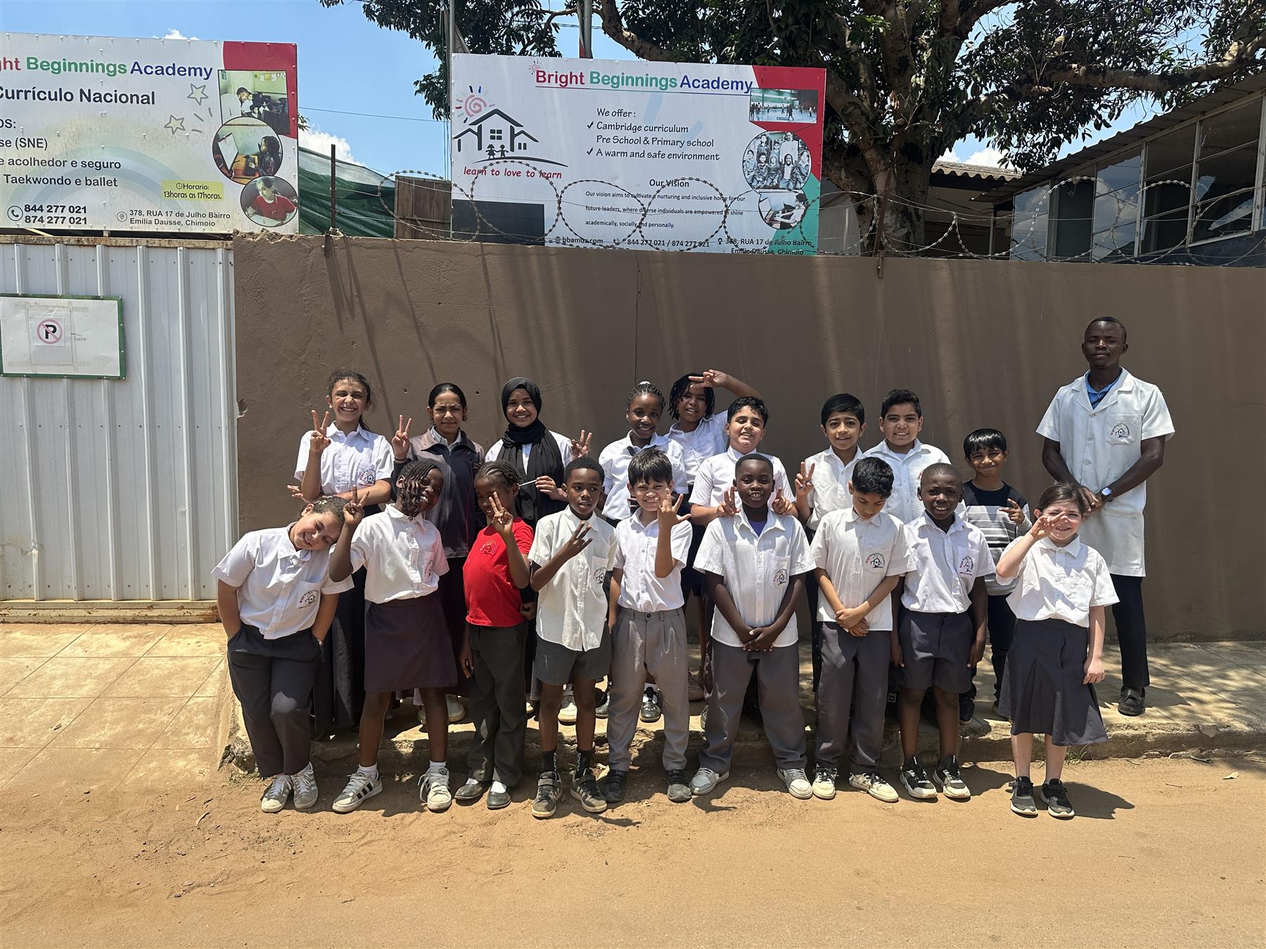
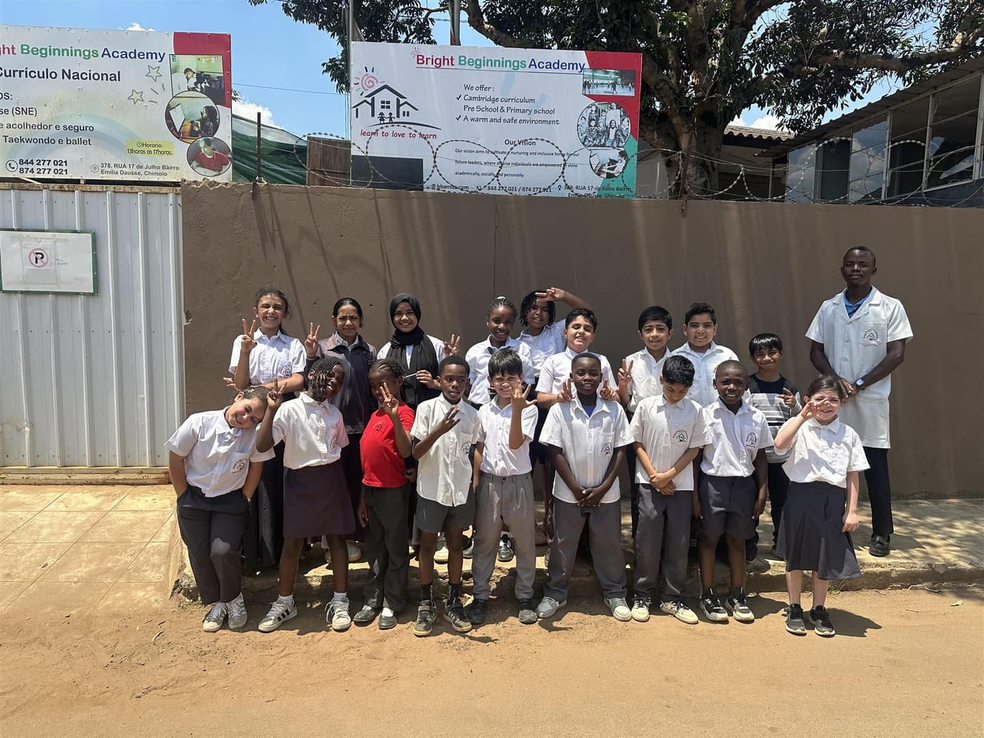
BBA: novas fotos na galeria e no site, Google Analytics e imagens otimizadas
- 4 retratos do Ensino Primario na galeria (18 no total) e nas paginas index, about e programmes
- Hero com carregamento lazy (data-src) e novo slide
- Google tag G-0FX6RZ6NRV em todas as paginas e CSP atualizada
- Imagens recomprimidas (varias de 1.6 MB para ~210 KB)
- Ignorar biblioteca Lightroom sites/bba/bba no git e no deploy

diff --git a/sites/bba/gallery.html b/sites/bba/gallery.html
@@ -2,6 +2,14 @@
 <html lang="pt-MZ">
 <head>
 <meta charset="UTF-8">
+<!-- Google tag (gtag.js) -->
+<script async src="https://www.googletagmanager.com/gtag/js?id=G-0FX6RZ6NRV"></script>
+<script>
+  window.dataLayer = window.dataLayer || [];
+  function gtag(){dataLayer.push(arguments);}
+  gtag('js', new Date());
+  gtag('config', 'G-0FX6RZ6NRV');
+</script>
 <meta name="viewport" content="width=device-width, initial-scale=1.0, viewport-fit=cover">
 <title>Galeria do Campus | Bright Beginnings Academy — Chimoio</title>
 <meta name="description" content="Explore a vida no campus da Bright Beginnings Academy em Chimoio: salas, laboratórios de ciências, desporto e momentos dos alunos.">
@@ -776,6 +784,10 @@ dialog.lb .lb-cap button{background:rgba(255,255,255,.12);color:#fff;border:1px 
       <button class="g-item reveal" type="button" data-cat="campus"><img src="assets/img/alunos-celebracao-bba.jpg" alt="Celebração e alegria dos alunos da Bright Beginnings Academy" loading="lazy"><span class="g-cap"><b data-i18n="g13b">Celebração & Espírito Escolar</b><span data-i18n="g13s">Alegria, união e energia positiva no campus da BBA.</span></span></button>
       <button class="g-item reveal" type="button" data-cat="campus"><img src="assets/img/alunos-equipa-bba.jpg" alt="Alunos da Bright Beginnings Academy em uniforme escolar" loading="lazy"><span class="g-cap"><b data-i18n="g14b">Orgulho no Uniforme BBA</b><span data-i18n="g14s">Turma reunida na entrada da escola em Chimoio.</span></span></button>
       <button class="g-item reveal" type="button" data-cat="campus"><img src="assets/img/foto-real-escola.jpg" alt="Entrada principal da escola" loading="lazy"><span class="g-cap"><b data-i18n="g2b">Entrada Principal</b><span data-i18n="g2s">O portão real da escola na Rua 17 de Julho.</span></span></button>
+      <button class="g-item reveal" type="button" data-cat="campus"><img src="assets/img/alunas-primary-bba.jpg" alt="Alunas do Ensino Primário da Bright Beginnings Academy em uniforme escolar" loading="lazy" decoding="async"><span class="g-cap"><b data-i18n="g15b">Amizade no Campus</b><span data-i18n="g15s">Alunas do Ensino Primário juntas, com o uniforme da escola.</span></span></button>
+      <button class="g-item reveal" type="button" data-cat="campus"><img src="assets/img/aluna-primary-bba-1.jpg" alt="Aluna do Ensino Primário da Bright Beginnings Academy a fazer um sinal de paz" loading="lazy" decoding="async"><span class="g-cap"><b data-i18n="g16b">Sorriso do Primary</b><span data-i18n="g16s">Alegria e confiança de uma aluna do Ensino Primário.</span></span></button>
+      <button class="g-item reveal" type="button" data-cat="campus"><img src="assets/img/aluna-primary-bba-2.jpg" alt="Aluna do Ensino Primário da Bright Beginnings Academy a mostrar o emblema da escola" loading="lazy" decoding="async"><span class="g-cap"><b data-i18n="g17b">Orgulho no Emblema</b><span data-i18n="g17s">Aluna do Primary a mostrar o emblema da BBA no uniforme.</span></span></button>
+      <button class="g-item reveal" type="button" data-cat="campus"><img src="assets/img/aluna-primary-bba-3.jpg" alt="Aluna do Ensino Primário da Bright Beginnings Academy em uniforme escolar" loading="lazy" decoding="async"><span class="g-cap"><b data-i18n="g18b">Confiança no Uniforme</b><span data-i18n="g18s">Retrato de uma aluna do Ensino Primário em uniforme BBA.</span></span></button>
       <button class="g-item reveal" type="button" data-cat="rooms"><img src="assets/img/sala-informatica.jpg" alt="Sala de informática da escola" loading="lazy"><span class="g-cap"><b data-i18n="g3b">Sala de Informática</b><span data-i18n="g3s">Tecnologia ao serviço da aprendizagem.</span></span></button>
       <button class="g-item reveal" type="button" data-cat="rooms"><img src="assets/img/early-years.jpg" alt="Sala do Early Years" loading="lazy"><span class="g-cap"><b data-i18n="g4b">Early Years</b><span data-i18n="g4s">Descoberta e jogo dos 2 aos 5 anos.</span></span></button>
       <button class="g-item reveal" type="button" data-cat="rooms"><img src="assets/img/sala-aula-1.jpeg" alt="Aluno do Ensino Primário em estudo com livro Oxford" loading="lazy"><span class="g-cap"><b data-i18n="g5b">Ensino Primário</b><span data-i18n="g5s">Leitura orientada, matemática e avaliação contínua.</span></span></button>
@@ -787,7 +799,7 @@ dialog.lb .lb-cap button{background:rgba(255,255,255,.12);color:#fff;border:1px 
       <button class="g-item reveal" type="button" data-cat="rooms"><img src="assets/img/sala-aula-1.jpeg" alt="Aluno a estudar com livro Oxford" loading="lazy"><span class="g-cap"><b data-i18n="g11b">Estudo com Livros Oxford</b><span data-i18n="g11s">Concentração com o Currículo Oxford.</span></span></button>
       <button class="g-item reveal" type="button" data-cat="art"><img src="assets/img/atividade-pintura.jpeg" alt="Aluna em atividade de pintura" loading="lazy"><span class="g-cap"><b data-i18n="g12b">Pintura & Artes</b><span data-i18n="g12s">Cor, imaginação e motricidade fina.</span></span></button>
     </div>
-    <p class="mini-note" style="margin-top:16px;text-align:center" data-i18n="g_count">14 fotografias</p>
+    <p class="mini-note" style="margin-top:16px;text-align:center" data-i18n="g_count">18 fotografias</p>
   </div>
 </section>
 
@@ -878,7 +890,7 @@ dialog.lb .lb-cap button{background:rgba(255,255,255,.12);color:#fff;border:1px 
 </div>
 <script src="assets/bba-config.js"></script>
 <script>
-window.__EN={"bar_annc":"Admissions Open for 2027 — Secure your child's place.","bar_cta":"Apply now →","nav_about":"About Us","nav_prog":"Programmes","nav_oxford":"Oxford Curriculum","nav_missao":"Mission & Values","nav_gal":"Gallery","nav_contact":"Contact","btn_apply":"Apply for 2027","btn_wa":"Chat on WhatsApp","ab_cta1":"Apply for 2027","f_blurb":"International school in Chimoio teaching the Oxford International Curriculum, from Early Years to Grade 10 — a community that knows every student by name.","f_hours":"Mon–Fri · 07:30–16:00","f_pages":"School","f_adm":"Admissions","f_insc":"Admissions 2027","f_priv":"Privacy Policy","f_terms":"Terms of Use","f_talk":"Talk to us","f_note":"Our office replies within 24 business hours, Monday to Friday. Campus tours by appointment.","f_love":"Learn to love to learn.","f_oxford":"Oxford International Curriculum — certified school since 2025","f_copy":"© 2026 <b>Bright Beginnings Academy</b> · Established in 2014 · Chimoio, Mozambique","cookie_t":"We use only essential data to answer your request. No advertising trackers.","cookie_l":"See Privacy Policy","cookie_b":"Accept","nav_home":"Home","ct_btn1":"Book a visit on WhatsApp","ct_btn2":"Contacts & location","t_saber":"Learn more","ct_consent":"I have read and accept the <a href=\"privacy.html\">Privacy Policy</a> and agree to be contacted about this enquiry.","side_priv":"We use your data only to answer this request. No advertising. <a href=\"privacy.html\">See Privacy Policy</a>.","ox_badge":"Oxford International certified · since 2025","lb_x":"Close ✕","side_btn":"Book a visit","n_eyebrow":"News","side_nc_t":"No obligation","side_dp_t":"Your data, protected","m1_t":"Talk to us","m1_d":"Complete the pre-enrolment form or message us on WhatsApp (+258 844 277 021). We schedule the guided visit on the day that suits your family best.","m2_t":"Visit the campus and submit your documents","m2_d":"Tour the campus, meet our leadership team and submit the document checklist. Primary applicants have a friendly placement conversation.","m3_t":"Confirm your place","m3_d":"Once your documents are validated, our office confirms the 2027 enrolment and shares the class, materials and key dates.","q1":"What language are lessons taught in?","a1":"Lessons are taught in English, with Portuguese support for beginners — the school's bilingual model since it was founded.","q2":"How can I visit the school before deciding?","a2":"Complete the pre-enrolment form or call +258 844 277 021 to schedule a guided visit: Rua 17 de Julho, Bairro Emília Dausse, Chimoio, Monday to Friday, 07:30–16:00.","q3":"Is there an entrance exam?","a3":"From Primary onwards, there is a placement conversation to get to know your child. There is no pass-or-fail exam — it simply ensures the right class placement.","q4":"Which ages do you accept at each level?","a4":"Early Years: ages 2–5. Primary: Grades 1–7. Secondary: Grades 8–10 (up to around age 16).","q5":"How do I find out the 2027 fees?","a5":"Our office will send you the updated fee schedule on WhatsApp or during your visit — no obligation, no small print.","map_dir":"Get Directions","map_hours":"Office hours: Monday to Friday · 07:30 to 16:00","map_addr_title":"Campus Address","gal_title":"Moments at Bright Beginnings.","gal_lead":"Classrooms, science laboratories, sports and student collaboration on our campus in Chimoio — real photos of the school.","gal_cta1":"Book a visit on WhatsApp","gal_cta2":"Apply for 2027","fl_eyebrow":"Campus gallery","fl_t":"Life on campus, in pictures","fl_lead":"Filter by activity or area. Select any image to open the high-resolution view.","fl_all":"All moments","fl_campus":"Campus & grounds","fl_rooms":"Classrooms & ICT","fl_sci":"Sciences & sports","fl_art":"Arts & creativity","g_count":"14 photographs","g1b":"Campus Community","g1s":"Students and teachers starting the day together on campus.","g2b":"Main School Entrance","g2s":"The real gate of our school on Rua 17 de Julho.","g13b":"School Spirit & Celebration","g13s":"Celebration, enthusiasm and unity across our school community.","g14b":"Pride in the BBA Uniform","g14s":"Official school uniform and community pride in Chimoio.","g3b":"ICT & Digital Learning","g3s":"Technology supporting everyday learning.","g4b":"Early Years Discovery","g4s":"Play-centred discovery for ages 2 to 5.","g5b":"Primary Academic Focus","g5s":"Guided literacy, mathematics and continuous assessment.","g6b":"Secondary Collaboration","g6s":"Analytical work and university preparation.","g7b":"Practical Laboratory Science","g7s":"Hands-on physics, chemistry and biology.","g8b":"Athletics & Team Sports","g8s":"Character, coordination and teamwork.","g9b":"Creativity Project — Planet Earth","g9s":"A student-made model exploring our planet.","g10b":"In the Classroom","g10s":"Real learning moments in Chimoio.","g11b":"Studying with Oxford Books","g11s":"Focused work with the Oxford Curriculum.","g12b":"Painting Activity","g12s":"Colour, imagination and fine motor skills.","rh_eyebrow":"Daily rhythm","rh_t":"A day at Bright Beginnings","rh_lead":"A school day paced for deep learning, balanced rest and intellectual curiosity.","r1_t":"Assembly & morning reading","r1_d":"A calm start, morning greetings in English and reading time in home classrooms.","r2_t":"Core Oxford subjects","r2_d":"Mathematics, English, sciences and practical ICT in dedicated learning rooms.","r3_t":"Co-curricular & athletics","r3_d":"Supervised sport, scientific experiments, public speaking and community projects.","gq_eyebrow":"Come and experience BBA","gq_t":"Come and experience the campus in person","gq_p":"Schedule a 30-minute walk-through of classrooms, science labs and sports fields with an admissions officer.","gq_b2":"Contacts & location"};
+window.__EN={"bar_annc":"Admissions Open for 2027 — Secure your child's place.","bar_cta":"Apply now →","nav_about":"About Us","nav_prog":"Programmes","nav_oxford":"Oxford Curriculum","nav_missao":"Mission & Values","nav_gal":"Gallery","nav_contact":"Contact","btn_apply":"Apply for 2027","btn_wa":"Chat on WhatsApp","ab_cta1":"Apply for 2027","f_blurb":"International school in Chimoio teaching the Oxford International Curriculum, from Early Years to Grade 10 — a community that knows every student by name.","f_hours":"Mon–Fri · 07:30–16:00","f_pages":"School","f_adm":"Admissions","f_insc":"Admissions 2027","f_priv":"Privacy Policy","f_terms":"Terms of Use","f_talk":"Talk to us","f_note":"Our office replies within 24 business hours, Monday to Friday. Campus tours by appointment.","f_love":"Learn to love to learn.","f_oxford":"Oxford International Curriculum — certified school since 2025","f_copy":"© 2026 <b>Bright Beginnings Academy</b> · Established in 2014 · Chimoio, Mozambique","cookie_t":"We use only essential data to answer your request. No advertising trackers.","cookie_l":"See Privacy Policy","cookie_b":"Accept","nav_home":"Home","ct_btn1":"Book a visit on WhatsApp","ct_btn2":"Contacts & location","t_saber":"Learn more","ct_consent":"I have read and accept the <a href=\"privacy.html\">Privacy Policy</a> and agree to be contacted about this enquiry.","side_priv":"We use your data only to answer this request. No advertising. <a href=\"privacy.html\">See Privacy Policy</a>.","ox_badge":"Oxford International certified · since 2025","lb_x":"Close ✕","side_btn":"Book a visit","n_eyebrow":"News","side_nc_t":"No obligation","side_dp_t":"Your data, protected","m1_t":"Talk to us","m1_d":"Complete the pre-enrolment form or message us on WhatsApp (+258 844 277 021). We schedule the guided visit on the day that suits your family best.","m2_t":"Visit the campus and submit your documents","m2_d":"Tour the campus, meet our leadership team and submit the document checklist. Primary applicants have a friendly placement conversation.","m3_t":"Confirm your place","m3_d":"Once your documents are validated, our office confirms the 2027 enrolment and shares the class, materials and key dates.","q1":"What language are lessons taught in?","a1":"Lessons are taught in English, with Portuguese support for beginners — the school's bilingual model since it was founded.","q2":"How can I visit the school before deciding?","a2":"Complete the pre-enrolment form or call +258 844 277 021 to schedule a guided visit: Rua 17 de Julho, Bairro Emília Dausse, Chimoio, Monday to Friday, 07:30–16:00.","q3":"Is there an entrance exam?","a3":"From Primary onwards, there is a placement conversation to get to know your child. There is no pass-or-fail exam — it simply ensures the right class placement.","q4":"Which ages do you accept at each level?","a4":"Early Years: ages 2–5. Primary: Grades 1–7. Secondary: Grades 8–10 (up to around age 16).","q5":"How do I find out the 2027 fees?","a5":"Our office will send you the updated fee schedule on WhatsApp or during your visit — no obligation, no small print.","map_dir":"Get Directions","map_hours":"Office hours: Monday to Friday · 07:30 to 16:00","map_addr_title":"Campus Address","gal_title":"Moments at Bright Beginnings.","gal_lead":"Classrooms, science laboratories, sports and student collaboration on our campus in Chimoio — real photos of the school.","gal_cta1":"Book a visit on WhatsApp","gal_cta2":"Apply for 2027","fl_eyebrow":"Campus gallery","fl_t":"Life on campus, in pictures","fl_lead":"Filter by activity or area. Select any image to open the high-resolution view.","fl_all":"All moments","fl_campus":"Campus & grounds","fl_rooms":"Classrooms & ICT","fl_sci":"Sciences & sports","fl_art":"Arts & creativity","g_count":"18 photographs","g1b":"Campus Community","g1s":"Students and teachers starting the day together on campus.","g2b":"Main School Entrance","g2s":"The real gate of our school on Rua 17 de Julho.","g13b":"School Spirit & Celebration","g13s":"Celebration, enthusiasm and unity across our school community.","g14b":"Pride in the BBA Uniform","g14s":"Official school uniform and community pride in Chimoio.","g3b":"ICT & Digital Learning","g3s":"Technology supporting everyday learning.","g4b":"Early Years Discovery","g4s":"Play-centred discovery for ages 2 to 5.","g5b":"Primary Academic Focus","g5s":"Guided literacy, mathematics and continuous assessment.","g6b":"Secondary Collaboration","g6s":"Analytical work and university preparation.","g7b":"Practical Laboratory Science","g7s":"Hands-on physics, chemistry and biology.","g8b":"Athletics & Team Sports","g8s":"Character, coordination and teamwork.","g9b":"Creativity Project — Planet Earth","g9s":"A student-made model exploring our planet.","g10b":"In the Classroom","g10s":"Real learning moments in Chimoio.","g11b":"Studying with Oxford Books","g11s":"Focused work with the Oxford Curriculum.","g12b":"Painting Activity","g12s":"Colour, imagination and fine motor skills.","g15b":"Friendship on Campus","g15s":"Primary students together in their school uniform.","g16b":"Primary Smiles","g16s":"Joy and confidence from a Primary student.","g17b":"Pride in the School Badge","g17s":"A Primary student showing the BBA badge on her uniform.","g18b":"Confidence in Uniform","g18s":"Portrait of a Primary student wearing the BBA uniform.","rh_eyebrow":"Daily rhythm","rh_t":"A day at Bright Beginnings","rh_lead":"A school day paced for deep learning, balanced rest and intellectual curiosity.","r1_t":"Assembly & morning reading","r1_d":"A calm start, morning greetings in English and reading time in home classrooms.","r2_t":"Core Oxford subjects","r2_d":"Mathematics, English, sciences and practical ICT in dedicated learning rooms.","r3_t":"Co-curricular & athletics","r3_d":"Supervised sport, scientific experiments, public speaking and community projects.","gq_eyebrow":"Come and experience BBA","gq_t":"Come and experience the campus in person","gq_p":"Schedule a 30-minute walk-through of classrooms, science labs and sports fields with an admissions officer.","gq_b2":"Contacts & location"};
 window.__META={"pt":{"title":"Galeria do Campus | Bright Beginnings Academy — Chimoio","desc":"Explore a vida no campus da Bright Beginnings Academy em Chimoio: salas, laboratórios de ciências, desporto e momentos dos alunos."},"en":{"title":"Campus Photo Gallery | Bright Beginnings Academy - Chimoio","desc":"Explore campus life at Bright Beginnings Academy in Chimoio: classrooms, science laboratories, sports and student moments."}};
 window.BBA=Object.assign({"WHATSAPP":"258844277021","EMAIL_DESTINO":"admin@bba.edu.mz","SHEET_ENDPOINT":"https://script.google.com/macros/s/AKfycbx-5jlH7qch1etjyvCRhjafTBb_gbY_Lu-5ESeYBor9YiQrPvFcHk351FJ4kkb1Drz4/exec","ORIGEM_SITE":"site-bba","FORM_TOKEN":"c305567861293b7d6cdbf44f0c4c1abc"}, window.BBA_CONFIG || {});
 

diff --git a/sites/bba/index.html b/sites/bba/index.html
@@ -2,6 +2,14 @@
 <html lang="pt-MZ">
 <head>
 <meta charset="UTF-8">
+<!-- Google tag (gtag.js) -->
+<script async src="https://www.googletagmanager.com/gtag/js?id=G-0FX6RZ6NRV"></script>
+<script>
+  window.dataLayer = window.dataLayer || [];
+  function gtag(){dataLayer.push(arguments);}
+  gtag('js', new Date());
+  gtag('config', 'G-0FX6RZ6NRV');
+</script>
 <meta name="viewport" content="width=device-width, initial-scale=1.0, viewport-fit=cover">
 <title>Bright Beginnings Academy | Currículo Oxford em Chimoio</title>
 <meta name="description" content="Escola internacional em Chimoio com Currículo Oxford, do Early Years ao Grade 10. Educação de padrão britânico, valores e excelência desde 2014.">
@@ -671,6 +679,16 @@ dialog.lb .lb-cap button{background:rgba(255,255,255,.12);color:#fff;border:1px 
   .deco-flake-bl{left:-12px;bottom:-12px}
 }
 
+/* ---------- Retrato sobreposto junto ao texto (novas fotos) ---------- */
+.split .media.has-inset{overflow:visible}
+.split .media.has-inset .portrait-card{position:absolute;right:-16px;bottom:-22px;width:42%;max-width:220px;margin:0;border-radius:16px;overflow:hidden;border:5px solid #fff;background:#fff;box-shadow:0 24px 54px -20px rgba(16,24,40,.38);z-index:3}
+.split .media.has-inset .portrait-card img{width:100%;height:100%;aspect-ratio:3/4;object-fit:cover;object-position:center 16%}
+@media(max-width:719px){
+  .split .media.has-inset{display:flex;flex-direction:column;gap:12px;overflow:hidden}
+  .split .media.has-inset .portrait-card{position:static;order:-1;width:100%;max-width:none;border:0;border-radius:14px;box-shadow:var(--shadow-md)}
+  .split .media.has-inset .portrait-card img{aspect-ratio:4/3;object-position:center 20%}
+}
+
 
 </style>
 </head>
@@ -746,13 +764,14 @@ dialog.lb .lb-cap button{background:rgba(255,255,255,.12);color:#fff;border:1px 
 <section class="hero">
   <div class="hero-slider" role="region" aria-label="Fotos da escola">
     <div class="hero-slide active"><img src="assets/img/alunos-comunidade-bba.jpg" alt="Alunos e professores da Bright Beginnings Academy em Chimoio" fetchpriority="high" decoding="async"></div>
-    <div class="hero-slide" aria-hidden="true"><img src="assets/img/alunos-celebracao-bba.jpg" alt="Celebração e entusiasmo dos alunos da Bright Beginnings Academy" loading="lazy" decoding="async"></div>
-    <div class="hero-slide" aria-hidden="true"><img src="assets/img/alunos-equipa-bba.jpg" alt="Turma de alunos da Bright Beginnings Academy no portão da escola" loading="lazy" decoding="async"></div>
-    <div class="hero-slide" aria-hidden="true"><img src="assets/img/sala-aula.jpeg" alt="Aluno da Bright Beginnings Academy em sala de aula" loading="lazy" decoding="async"></div>
-    <div class="hero-slide" aria-hidden="true"><img src="assets/img/sala-aula-1.jpeg" alt="Aluno a estudar com livro Oxford" loading="lazy" decoding="async"></div>
-    <div class="hero-slide" aria-hidden="true"><img src="assets/img/foto-real-escola.jpg" alt="Entrada da Bright Beginnings Academy na Rua 17 de Julho" loading="lazy" decoding="async"></div>
-    <div class="hero-slide" aria-hidden="true"><img src="assets/img/turma-bba-escola.jpg" alt="Turma de alunos da Bright Beginnings Academy em uniforme escolar" loading="lazy" decoding="async"></div>
-    <div class="hero-slide" aria-hidden="true"><img src="assets/img/professor-alunos-bba.jpg" alt="Professores e alunos da Bright Beginnings Academy em ambiente escolar" loading="lazy" decoding="async"></div>
+    <div class="hero-slide" aria-hidden="true"><img data-src="assets/img/alunos-celebracao-bba.jpg" alt="Celebração e entusiasmo dos alunos da Bright Beginnings Academy" decoding="async"></div>
+    <div class="hero-slide" aria-hidden="true"><img data-src="assets/img/alunos-equipa-bba.jpg" alt="Turma de alunos da Bright Beginnings Academy no portão da escola" decoding="async"></div>
+    <div class="hero-slide" aria-hidden="true"><img data-src="assets/img/sala-aula.jpeg" alt="Aluno da Bright Beginnings Academy em sala de aula" decoding="async"></div>
+    <div class="hero-slide" aria-hidden="true"><img data-src="assets/img/sala-aula-1.jpeg" alt="Aluno a estudar com livro Oxford" decoding="async"></div>
+    <div class="hero-slide" aria-hidden="true"><img data-src="assets/img/foto-real-escola.jpg" alt="Entrada da Bright Beginnings Academy na Rua 17 de Julho" decoding="async"></div>
+    <div class="hero-slide" aria-hidden="true"><img data-src="assets/img/turma-bba-escola.jpg" alt="Turma de alunos da Bright Beginnings Academy em uniforme escolar" decoding="async"></div>
+    <div class="hero-slide" aria-hidden="true"><img data-src="assets/img/professor-alunos-bba.jpg" alt="Professores e alunos da Bright Beginnings Academy em ambiente escolar" decoding="async"></div>
+    <div class="hero-slide" aria-hidden="true"><img data-src="assets/img/alunas-primary-bba.jpg" alt="Alunas do Ensino Primário da Bright Beginnings Academy em uniforme escolar" decoding="async"></div>
   </div>
   <div class="container">
     <div class="hero-inner">
@@ -784,6 +803,7 @@ dialog.lb .lb-cap button{background:rgba(255,255,255,.12);color:#fff;border:1px 
     <button class="hdot" type="button" aria-label="Foto 6"></button>
     <button class="hdot" type="button" aria-label="Foto 7"></button>
     <button class="hdot" type="button" aria-label="Foto 8"></button>
+    <button class="hdot" type="button" aria-label="Foto 9"></button>
   </div>
 </section>
 
@@ -800,9 +820,12 @@ dialog.lb .lb-cap button{background:rgba(255,255,255,.12);color:#fff;border:1px 
           <a class="btn btn-ghost" href="missao.html"><svg viewBox="0 0 24 24" fill="none" stroke="currentColor" stroke-width="2" stroke-linecap="round" stroke-linejoin="round"><circle cx="12" cy="12" r="10"/><path d="M16.24 7.76l-2.12 6.36-6.36 2.12 2.12-6.36 6.36-2.12z"/></svg><span data-i18n="ab_cta2">Missão e Valores</span></a>
         </div>
       </div>
-      <div class="media reveal">
+      <div class="media reveal has-inset">
         <img src="assets/img/alunos-comunidade-bba.jpg" alt="Alunos e professores da Bright Beginnings Academy na Rua 17 de Julho, Chimoio" loading="lazy">
         <div class="m-chip"><svg viewBox="0 0 24 24" fill="none" stroke="currentColor" stroke-width="2" stroke-linecap="round" stroke-linejoin="round"><path d="M21 10c0 7-9 13-9 13s-9-6-9-13a9 9 0 0 1 18 0z"/><circle cx="12" cy="10" r="3"/></svg><span data-i18n="s_chip">Rua 17 de Julho · Chimoio</span></div>
+        <figure class="portrait-card">
+          <img src="assets/img/aluna-primary-bba-3.jpg" alt="Aluna da Bright Beginnings Academy em ambiente de sala de aula" width="720" height="1524" loading="lazy" decoding="async">
+        </figure>
       </div>
     </div>
   </div>
@@ -858,7 +881,7 @@ dialog.lb .lb-cap button{background:rgba(255,255,255,.12);color:#fff;border:1px 
         </div>
       </article>
       <article class="pcard reveal">
-        <div class="ph"><span class="tag" data-i18n="p2_tag">Grades 1–7 · Primary</span><img src="assets/img/primary-leitura-bba.jpg" alt="Aluno do Ensino Primário da Bright Beginnings Academy a ler na biblioteca" loading="lazy"></div>
+        <div class="ph"><span class="tag" data-i18n="p2_tag">Grades 1–7 · Primary</span><img src="assets/img/alunas-primary-bba.jpg" alt="Alunas do Ensino Primário da Bright Beginnings Academy em uniforme escolar" loading="lazy" decoding="async"></div>
         <div class="bd">
           <h3 data-i18n="p2_t">Primary: a curiosidade torna-se saber</h3>
           <p data-i18n="p2_d">Bases sólidas em inglês, matemática e raciocínio crítico, com leitura diária, desporto, artes e avaliação contínua de padrão britânico.</p>
@@ -1136,7 +1159,8 @@ if("IntersectionObserver" in window && !matchMedia("(prefers-reduced-motion: red
 var slider=document.querySelector(".hero-slider");
 if(slider){
   var slides=slider.querySelectorAll(".hero-slide"), dots=document.querySelectorAll(".hdot"), i=0, t=null;
-  function go(n){ slides[i].classList.remove("active"); if(dots[i]) dots[i].classList.remove("on"); i=(n+slides.length)%slides.length; slides[i].classList.add("active"); if(dots[i]) dots[i].classList.add("on"); }
+  function loadSlide(s){ var im=s.querySelector("img[data-src]"); if(im){ im.src=im.getAttribute("data-src"); im.removeAttribute("data-src"); } }
+  function go(n){ slides[i].classList.remove("active"); if(dots[i]) dots[i].classList.remove("on"); i=(n+slides.length)%slides.length; loadSlide(slides[i]); var nx=slides[(i+1)%slides.length]; loadSlide(nx); slides[i].classList.add("active"); if(dots[i]) dots[i].classList.add("on"); }
   function auto(){ if(t) clearInterval(t); if(!matchMedia("(prefers-reduced-motion: reduce)").matches) t=setInterval(function(){ go(i+1); }, 6000); }
   dots.forEach(function(d, n){ d.addEventListener("click", function(){ go(n); auto(); }); });
   slider.addEventListener("mouseenter", function(){ if(t) clearInterval(t); });

diff --git a/sites/bba/_rea/build/pages-extra.js b/sites/bba/_rea/build/pages-extra.js
@@ -527,7 +527,7 @@ const gallery = {
     fl_rooms: "Classrooms & ICT",
     fl_sci: "Sciences & sports",
     fl_art: "Arts & creativity",
-    g_count: "14 photographs",
+    g_count: "18 photographs",
     g1b: "Campus Community", g1s: "Students and teachers starting the day together on campus.",
     g2b: "Main School Entrance", g2s: "The real gate of our school on Rua 17 de Julho.",
     g13b: "School Spirit & Celebration", g13s: "Celebration, enthusiasm and unity across our school community.",
@@ -542,6 +542,10 @@ const gallery = {
     g10b: "In the Classroom", g10s: "Real learning moments in Chimoio.",
     g11b: "Studying with Oxford Books", g11s: "Focused work with the Oxford Curriculum.",
     g12b: "Painting Activity", g12s: "Colour, imagination and fine motor skills.",
+    g15b: "Friendship on Campus", g15s: "Primary students together in their school uniform.",
+    g16b: "Primary Smiles", g16s: "Joy and confidence from a Primary student.",
+    g17b: "Pride in the School Badge", g17s: "A Primary student showing the BBA badge on her uniform.",
+    g18b: "Confidence in Uniform", g18s: "Portrait of a Primary student wearing the BBA uniform.",
     rh_eyebrow: "Daily rhythm",
     rh_t: "A day at Bright Beginnings",
     rh_lead: "A school day paced for deep learning, balanced rest and intellectual curiosity.",
@@ -591,6 +595,10 @@ const gallery = {
       <button class="g-item reveal" type="button" data-cat="campus"><img src="assets/img/alunos-celebracao-bba.jpg" alt="Celebração e alegria dos alunos da Bright Beginnings Academy" loading="lazy"><span class="g-cap"><b data-i18n="g13b">Celebração & Espírito Escolar</b><span data-i18n="g13s">Alegria, união e energia positiva no campus da BBA.</span></span></button>
       <button class="g-item reveal" type="button" data-cat="campus"><img src="assets/img/alunos-equipa-bba.jpg" alt="Alunos da Bright Beginnings Academy em uniforme escolar" loading="lazy"><span class="g-cap"><b data-i18n="g14b">Orgulho no Uniforme BBA</b><span data-i18n="g14s">Turma reunida na entrada da escola em Chimoio.</span></span></button>
       <button class="g-item reveal" type="button" data-cat="campus"><img src="assets/img/foto-real-escola.jpg" alt="Entrada principal da escola" loading="lazy"><span class="g-cap"><b data-i18n="g2b">Entrada Principal</b><span data-i18n="g2s">O portão real da escola na Rua 17 de Julho.</span></span></button>
+      <button class="g-item reveal" type="button" data-cat="campus"><img src="assets/img/alunas-primary-bba.jpg" alt="Alunas do Ensino Primário da Bright Beginnings Academy em uniforme escolar" loading="lazy" decoding="async"><span class="g-cap"><b data-i18n="g15b">Amizade no Campus</b><span data-i18n="g15s">Alunas do Ensino Primário juntas, com o uniforme da escola.</span></span></button>
+      <button class="g-item reveal" type="button" data-cat="campus"><img src="assets/img/aluna-primary-bba-1.jpg" alt="Aluna do Ensino Primário da Bright Beginnings Academy a fazer um sinal de paz" loading="lazy" decoding="async"><span class="g-cap"><b data-i18n="g16b">Sorriso do Primary</b><span data-i18n="g16s">Alegria e confiança de uma aluna do Ensino Primário.</span></span></button>
+      <button class="g-item reveal" type="button" data-cat="campus"><img src="assets/img/aluna-primary-bba-2.jpg" alt="Aluna do Ensino Primário da Bright Beginnings Academy a mostrar o emblema da escola" loading="lazy" decoding="async"><span class="g-cap"><b data-i18n="g17b">Orgulho no Emblema</b><span data-i18n="g17s">Aluna do Primary a mostrar o emblema da BBA no uniforme.</span></span></button>
+      <button class="g-item reveal" type="button" data-cat="campus"><img src="assets/img/aluna-primary-bba-3.jpg" alt="Aluna do Ensino Primário da Bright Beginnings Academy em uniforme escolar" loading="lazy" decoding="async"><span class="g-cap"><b data-i18n="g18b">Confiança no Uniforme</b><span data-i18n="g18s">Retrato de uma aluna do Ensino Primário em uniforme BBA.</span></span></button>
       <button class="g-item reveal" type="button" data-cat="rooms"><img src="assets/img/sala-informatica.jpg" alt="Sala de informática da escola" loading="lazy"><span class="g-cap"><b data-i18n="g3b">Sala de Informática</b><span data-i18n="g3s">Tecnologia ao serviço da aprendizagem.</span></span></button>
       <button class="g-item reveal" type="button" data-cat="rooms"><img src="assets/img/early-years.jpg" alt="Sala do Early Years" loading="lazy"><span class="g-cap"><b data-i18n="g4b">Early Years</b><span data-i18n="g4s">Descoberta e jogo dos 2 aos 5 anos.</span></span></button>
       <button class="g-item reveal" type="button" data-cat="rooms"><img src="assets/img/sala-aula-1.jpeg" alt="Aluno do Ensino Primário em estudo com livro Oxford" loading="lazy"><span class="g-cap"><b data-i18n="g5b">Ensino Primário</b><span data-i18n="g5s">Leitura orientada, matemática e avaliação contínua.</span></span></button>
@@ -602,7 +610,7 @@ const gallery = {
       <button class="g-item reveal" type="button" data-cat="rooms"><img src="assets/img/sala-aula-1.jpeg" alt="Aluno a estudar com livro Oxford" loading="lazy"><span class="g-cap"><b data-i18n="g11b">Estudo com Livros Oxford</b><span data-i18n="g11s">Concentração com o Currículo Oxford.</span></span></button>
       <button class="g-item reveal" type="button" data-cat="art"><img src="assets/img/atividade-pintura.jpeg" alt="Aluna em atividade de pintura" loading="lazy"><span class="g-cap"><b data-i18n="g12b">Pintura & Artes</b><span data-i18n="g12s">Cor, imaginação e motricidade fina.</span></span></button>
     </div>
-    <p class="mini-note" style="margin-top:16px;text-align:center" data-i18n="g_count">14 fotografias</p>
+    <p class="mini-note" style="margin-top:16px;text-align:center" data-i18n="g_count">18 fotografias</p>
   </div>
 </section>
 

diff --git a/sites/bba/programmes.html b/sites/bba/programmes.html
@@ -2,6 +2,14 @@
 <html lang="pt-MZ">
 <head>
 <meta charset="UTF-8">
+<!-- Google tag (gtag.js) -->
+<script async src="https://www.googletagmanager.com/gtag/js?id=G-0FX6RZ6NRV"></script>
+<script>
+  window.dataLayer = window.dataLayer || [];
+  function gtag(){dataLayer.push(arguments);}
+  gtag('js', new Date());
+  gtag('config', 'G-0FX6RZ6NRV');
+</script>
 <meta name="viewport" content="width=device-width, initial-scale=1.0, viewport-fit=cover">
 <title>Programas Académicos | Bright Beginnings Academy — Chimoio</title>
 <meta name="description" content="Do Early Years (2–5 anos) ao Primary e Secondary (até ao Grade 10): conheça os três níveis de ensino da Bright Beginnings Academy em Chimoio.">
@@ -670,6 +678,19 @@ dialog.lb .lb-cap button{background:rgba(255,255,255,.12);color:#fff;border:1px 
   .deco-flake-bl{left:-12px;bottom:-12px}
 }
 
+/* ---------- Mosaico do Ensino Primário (novas fotos) ---------- */
+.split .media.media-collage{background:transparent;box-shadow:none;overflow:visible;display:grid;gap:14px}
+.split .media.media-collage figure{margin:0;overflow:hidden;border-radius:var(--r-lg)}
+.split .media.media-collage .mc-main{aspect-ratio:16/7.56;box-shadow:var(--shadow-lg)}
+.split .media.media-collage .mc-main img{width:100%;height:100%;aspect-ratio:auto;object-fit:cover;object-position:center 42%}
+.split .media.media-collage .mc-row{display:grid;grid-template-columns:1fr 1fr;gap:14px}
+.split .media.media-collage .mc-row figure{aspect-ratio:3/4;box-shadow:var(--shadow-md)}
+.split .media.media-collage .mc-row img{width:100%;height:100%;aspect-ratio:auto;object-fit:cover;object-position:center 14%}
+@media(max-width:719px){
+  .split .media.media-collage .mc-row{gap:10px}
+  .split .media.media-collage .mc-main{aspect-ratio:16/9}
+}
+
 
 </style>
 </head>
@@ -783,8 +804,18 @@ dialog.lb .lb-cap button{background:rgba(255,255,255,.12);color:#fff;border:1px 
 <section class="sec tint" id="primary">
   <div class="container">
     <div class="split">
-      <div class="media reveal">
-        <img src="assets/img/primary-leitura-bba.jpg" alt="Aluno do Ensino Primário da Bright Beginnings Academy a ler na biblioteca" loading="lazy">
+      <div class="media reveal media-collage">
+        <figure class="mc-main">
+          <img src="assets/img/primary-leitura-bba.jpg" alt="Aluno do Ensino Primário da Bright Beginnings Academy a ler na biblioteca" loading="lazy">
+        </figure>
+        <div class="mc-row">
+          <figure>
+            <img src="assets/img/aluna-primary-bba-1.jpg" alt="Aluna do Ensino Primário da Bright Beginnings Academy a fazer um sinal de paz" width="720" height="1524" loading="lazy" decoding="async">
+          </figure>
+          <figure>
+            <img src="assets/img/aluna-primary-bba-2.jpg" alt="Aluna do Ensino Primário da Bright Beginnings Academy em uniforme escolar" width="720" height="1521" loading="lazy" decoding="async">
+          </figure>
+        </div>
       </div>
       <div class="reveal">
         <span class="eyebrow" data-i18n="pr1_eyebrow">Grades 1–7 · Primary</span>

diff --git a/sites/bba/about.html b/sites/bba/about.html
@@ -2,6 +2,14 @@
 <html lang="pt-MZ">
 <head>
 <meta charset="UTF-8">
+<!-- Google tag (gtag.js) -->
+<script async src="https://www.googletagmanager.com/gtag/js?id=G-0FX6RZ6NRV"></script>
+<script>
+  window.dataLayer = window.dataLayer || [];
+  function gtag(){dataLayer.push(arguments);}
+  gtag('js', new Date());
+  gtag('config', 'G-0FX6RZ6NRV');
+</script>
 <meta name="viewport" content="width=device-width, initial-scale=1.0, viewport-fit=cover">
 <title>Sobre Nós | Bright Beginnings Academy — Chimoio</title>
 <meta name="description" content="A história da Bright Beginnings Academy em Chimoio desde 2014: uma comunidade de aprendizagem do Early Years ao Grade 10, com o Currículo Oxford.">
@@ -670,6 +678,16 @@ dialog.lb .lb-cap button{background:rgba(255,255,255,.12);color:#fff;border:1px 
   .deco-flake-bl{left:-12px;bottom:-12px}
 }
 
+/* ---------- Retrato sobreposto junto ao texto (novas fotos) ---------- */
+.split .media.has-inset{overflow:visible}
+.split .media.has-inset .portrait-card{position:absolute;right:-16px;bottom:-22px;width:42%;max-width:220px;margin:0;border-radius:16px;overflow:hidden;border:5px solid #fff;background:#fff;box-shadow:0 24px 54px -20px rgba(16,24,40,.38);z-index:3}
+.split .media.has-inset .portrait-card img{width:100%;height:100%;aspect-ratio:3/4;object-fit:cover;object-position:center 16%}
+@media(max-width:719px){
+  .split .media.has-inset{display:flex;flex-direction:column;gap:12px;overflow:hidden}
+  .split .media.has-inset .portrait-card{position:static;order:-1;width:100%;max-width:none;border:0;border-radius:14px;box-shadow:var(--shadow-md)}
+  .split .media.has-inset .portrait-card img{aspect-ratio:4/3;object-position:center 20%}
+}
+
 
 </style>
 </head>
@@ -768,8 +786,11 @@ dialog.lb .lb-cap button{background:rgba(255,255,255,.12);color:#fff;border:1px 
         <p class="lead" style="margin-top:12px" data-i18n="st_p2">Desde 2014, crescemos passo a passo — do Early Years ao Ensino Primário e, depois, ao Secundário — até nos tornarmos uma instituição de ensino internacional de referência em Moçambique.</p>
         <p class="lead" style="margin-top:12px" data-i18n="st_p3">Ensinamos com o Oxford International Curriculum, nosso parceiro curricular: uma base de padrão britânico que desenvolve pensamento crítico, criatividade e o gosto de aprender para a vida.</p>
       </div>
-      <div class="media reveal">
+      <div class="media reveal has-inset">
         <img src="assets/img/alunos-comunidade-bba.jpg" alt="Alunos e professores da Bright Beginnings Academy em Chimoio" loading="lazy">
+        <figure class="portrait-card">
+          <img src="assets/img/aluna-primary-bba-2.jpg" alt="Aluna do Ensino Primário da Bright Beginnings Academy em uniforme escolar" width="720" height="1521" loading="lazy" decoding="async">
+        </figure>
       </div>
     </div>
     <div class="stats" style="margin-top:clamp(34px,4.5vw,56px)">

diff --git a/sites/bba/terms.html b/sites/bba/terms.html
@@ -2,6 +2,14 @@
 <html lang="pt-MZ">
 <head>
 <meta charset="UTF-8">
+<!-- Google tag (gtag.js) -->
+<script async src="https://www.googletagmanager.com/gtag/js?id=G-0FX6RZ6NRV"></script>
+<script>
+  window.dataLayer = window.dataLayer || [];
+  function gtag(){dataLayer.push(arguments);}
+  gtag('js', new Date());
+  gtag('config', 'G-0FX6RZ6NRV');
+</script>
 <meta name="viewport" content="width=device-width, initial-scale=1.0, viewport-fit=cover">
 <title>Termos de Matrícula e Regulamento | Bright Beginnings Academy — Chimoio</title>
 <meta name="description" content="Termos de Matrícula e Regulamento da Bright Beginnings Academy em Chimoio: programas, admissão, mensalidades, assiduidade, conduta, transporte e desistência.">

diff --git a/sites/bba/privacy.html b/sites/bba/privacy.html
@@ -2,6 +2,14 @@
 <html lang="pt-MZ">
 <head>
 <meta charset="UTF-8">
+<!-- Google tag (gtag.js) -->
+<script async src="https://www.googletagmanager.com/gtag/js?id=G-0FX6RZ6NRV"></script>
+<script>
+  window.dataLayer = window.dataLayer || [];
+  function gtag(){dataLayer.push(arguments);}
+  gtag('js', new Date());
+  gtag('config', 'G-0FX6RZ6NRV');
+</script>
 <meta name="viewport" content="width=device-width, initial-scale=1.0, viewport-fit=cover">
 <title>Política de Privacidade | Bright Beginnings Academy — Chimoio</title>
 <meta name="description" content="Como a Bright Beginnings Academy em Chimoio recolhe, usa, protege e retém dados pessoais — de pedidos de admissão e registos de alunos a visitas ao site.">

diff --git a/sites/bba/inscricao-2027.html b/sites/bba/inscricao-2027.html
@@ -2,6 +2,14 @@
 <html lang="pt-MZ">
 <head>
 <meta charset="UTF-8">
+<!-- Google tag (gtag.js) -->
+<script async src="https://www.googletagmanager.com/gtag/js?id=G-0FX6RZ6NRV"></script>
+<script>
+  window.dataLayer = window.dataLayer || [];
+  function gtag(){dataLayer.push(arguments);}
+  gtag('js', new Date());
+  gtag('config', 'G-0FX6RZ6NRV');
+</script>
 <meta name="viewport" content="width=device-width, initial-scale=1.0, viewport-fit=cover">
 <title>Inscrições Abertas 2027 | Bright Beginnings Academy — Chimoio</title>
 <meta name="description" content="Inscrições abertas para 2027 na Bright Beginnings Academy, Chimoio: Early Years, Primary e Secondary com o Currículo Oxford. Fale connosco no WhatsApp.">

diff --git a/sites/bba/contact.html b/sites/bba/contact.html
@@ -2,6 +2,14 @@
 <html lang="pt-MZ">
 <head>
 <meta charset="UTF-8">
+<!-- Google tag (gtag.js) -->
+<script async src="https://www.googletagmanager.com/gtag/js?id=G-0FX6RZ6NRV"></script>
+<script>
+  window.dataLayer = window.dataLayer || [];
+  function gtag(){dataLayer.push(arguments);}
+  gtag('js', new Date());
+  gtag('config', 'G-0FX6RZ6NRV');
+</script>
 <meta name="viewport" content="width=device-width, initial-scale=1.0, viewport-fit=cover">
 <title>Contacto & Admissões | Bright Beginnings Academy — Chimoio</title>
 <meta name="description" content="Fale com a secretaria da Bright Beginnings Academy em Chimoio: telefone/WhatsApp +258 844 277 021, admin@bba.edu.mz, Rua 17 de Julho, Bairro Emília Dausse.">

diff --git a/sites/bba/oxford.html b/sites/bba/oxford.html
@@ -2,6 +2,14 @@
 <html lang="pt-MZ">
 <head>
 <meta charset="UTF-8">
+<!-- Google tag (gtag.js) -->
+<script async src="https://www.googletagmanager.com/gtag/js?id=G-0FX6RZ6NRV"></script>
+<script>
+  window.dataLayer = window.dataLayer || [];
+  function gtag(){dataLayer.push(arguments);}
+  gtag('js', new Date());
+  gtag('config', 'G-0FX6RZ6NRV');
+</script>
 <meta name="viewport" content="width=device-width, initial-scale=1.0, viewport-fit=cover">
 <title>Currículo Oxford | Bright Beginnings Academy — Chimoio</title>
 <meta name="description" content="O Currículo Oxford na Bright Beginnings Academy: escola certificada desde 2025, currículo de padrão britânico do Early Years ao Grade 10 em Chimoio.">

diff --git a/sites/bba/missao.html b/sites/bba/missao.html
@@ -2,6 +2,14 @@
 <html lang="pt-MZ">
 <head>
 <meta charset="UTF-8">
+<!-- Google tag (gtag.js) -->
+<script async src="https://www.googletagmanager.com/gtag/js?id=G-0FX6RZ6NRV"></script>
+<script>
+  window.dataLayer = window.dataLayer || [];
+  function gtag(){dataLayer.push(arguments);}
+  gtag('js', new Date());
+  gtag('config', 'G-0FX6RZ6NRV');
+</script>
 <meta name="viewport" content="width=device-width, initial-scale=1.0, viewport-fit=cover">
 <title>Missão, Visão e Valores | Bright Beginnings Academy — Chimoio</title>
 <meta name="description" content="Missão, visão e os 4 valores da Bright Beginnings Academy em Chimoio: bondade, respeito, contributo único, integridade e excelência.">

diff --git a/sites/bba/noticia.html b/sites/bba/noticia.html
@@ -2,6 +2,14 @@
 <html lang="pt-MZ">
 <head>
 <meta charset="UTF-8">
+<!-- Google tag (gtag.js) -->
+<script async src="https://www.googletagmanager.com/gtag/js?id=G-0FX6RZ6NRV"></script>
+<script>
+  window.dataLayer = window.dataLayer || [];
+  function gtag(){dataLayer.push(arguments);}
+  gtag('js', new Date());
+  gtag('config', 'G-0FX6RZ6NRV');
+</script>
 <meta name="viewport" content="width=device-width, initial-scale=1.0, viewport-fit=cover">
 <title>Notícias & Atividades | Bright Beginnings Academy — Chimoio</title>
 <meta name="description" content="Acompanhe as notícias, projetos e conquistas da Bright Beginnings Academy em Chimoio, Moçambique — do Early Years ao Grade 10.">
